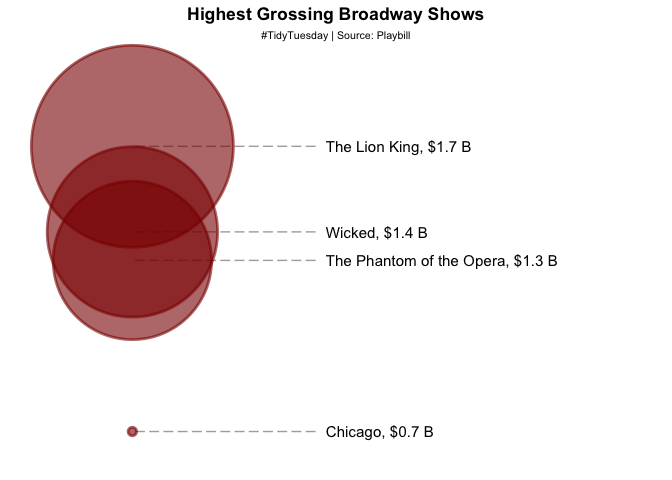
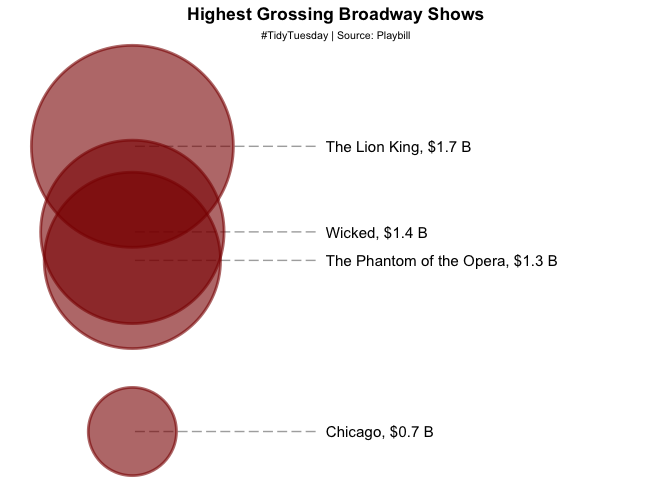
update broadway musicals sizes

Changed region(s): [[0.0312, 0.2812, 0.3438, 0.75], [0.125, 0.7812, 0.2812, 1.0], [0.25, 0.3125, 0.2812, 0.3438]]

diff --git a/3-practice/1-ggplot_practice.md b/3-practice/1-ggplot_practice.md
@@ -345,7 +345,7 @@ total_grossing %>%
 
 **Kaizad F. Patel**
 
-Date last run: 2021-01-02
+Date last run: 2021-01-04
 
     ## R version 4.0.2 (2020-06-22)
     ## Platform: x86_64-apple-darwin17.0 (64-bit)
